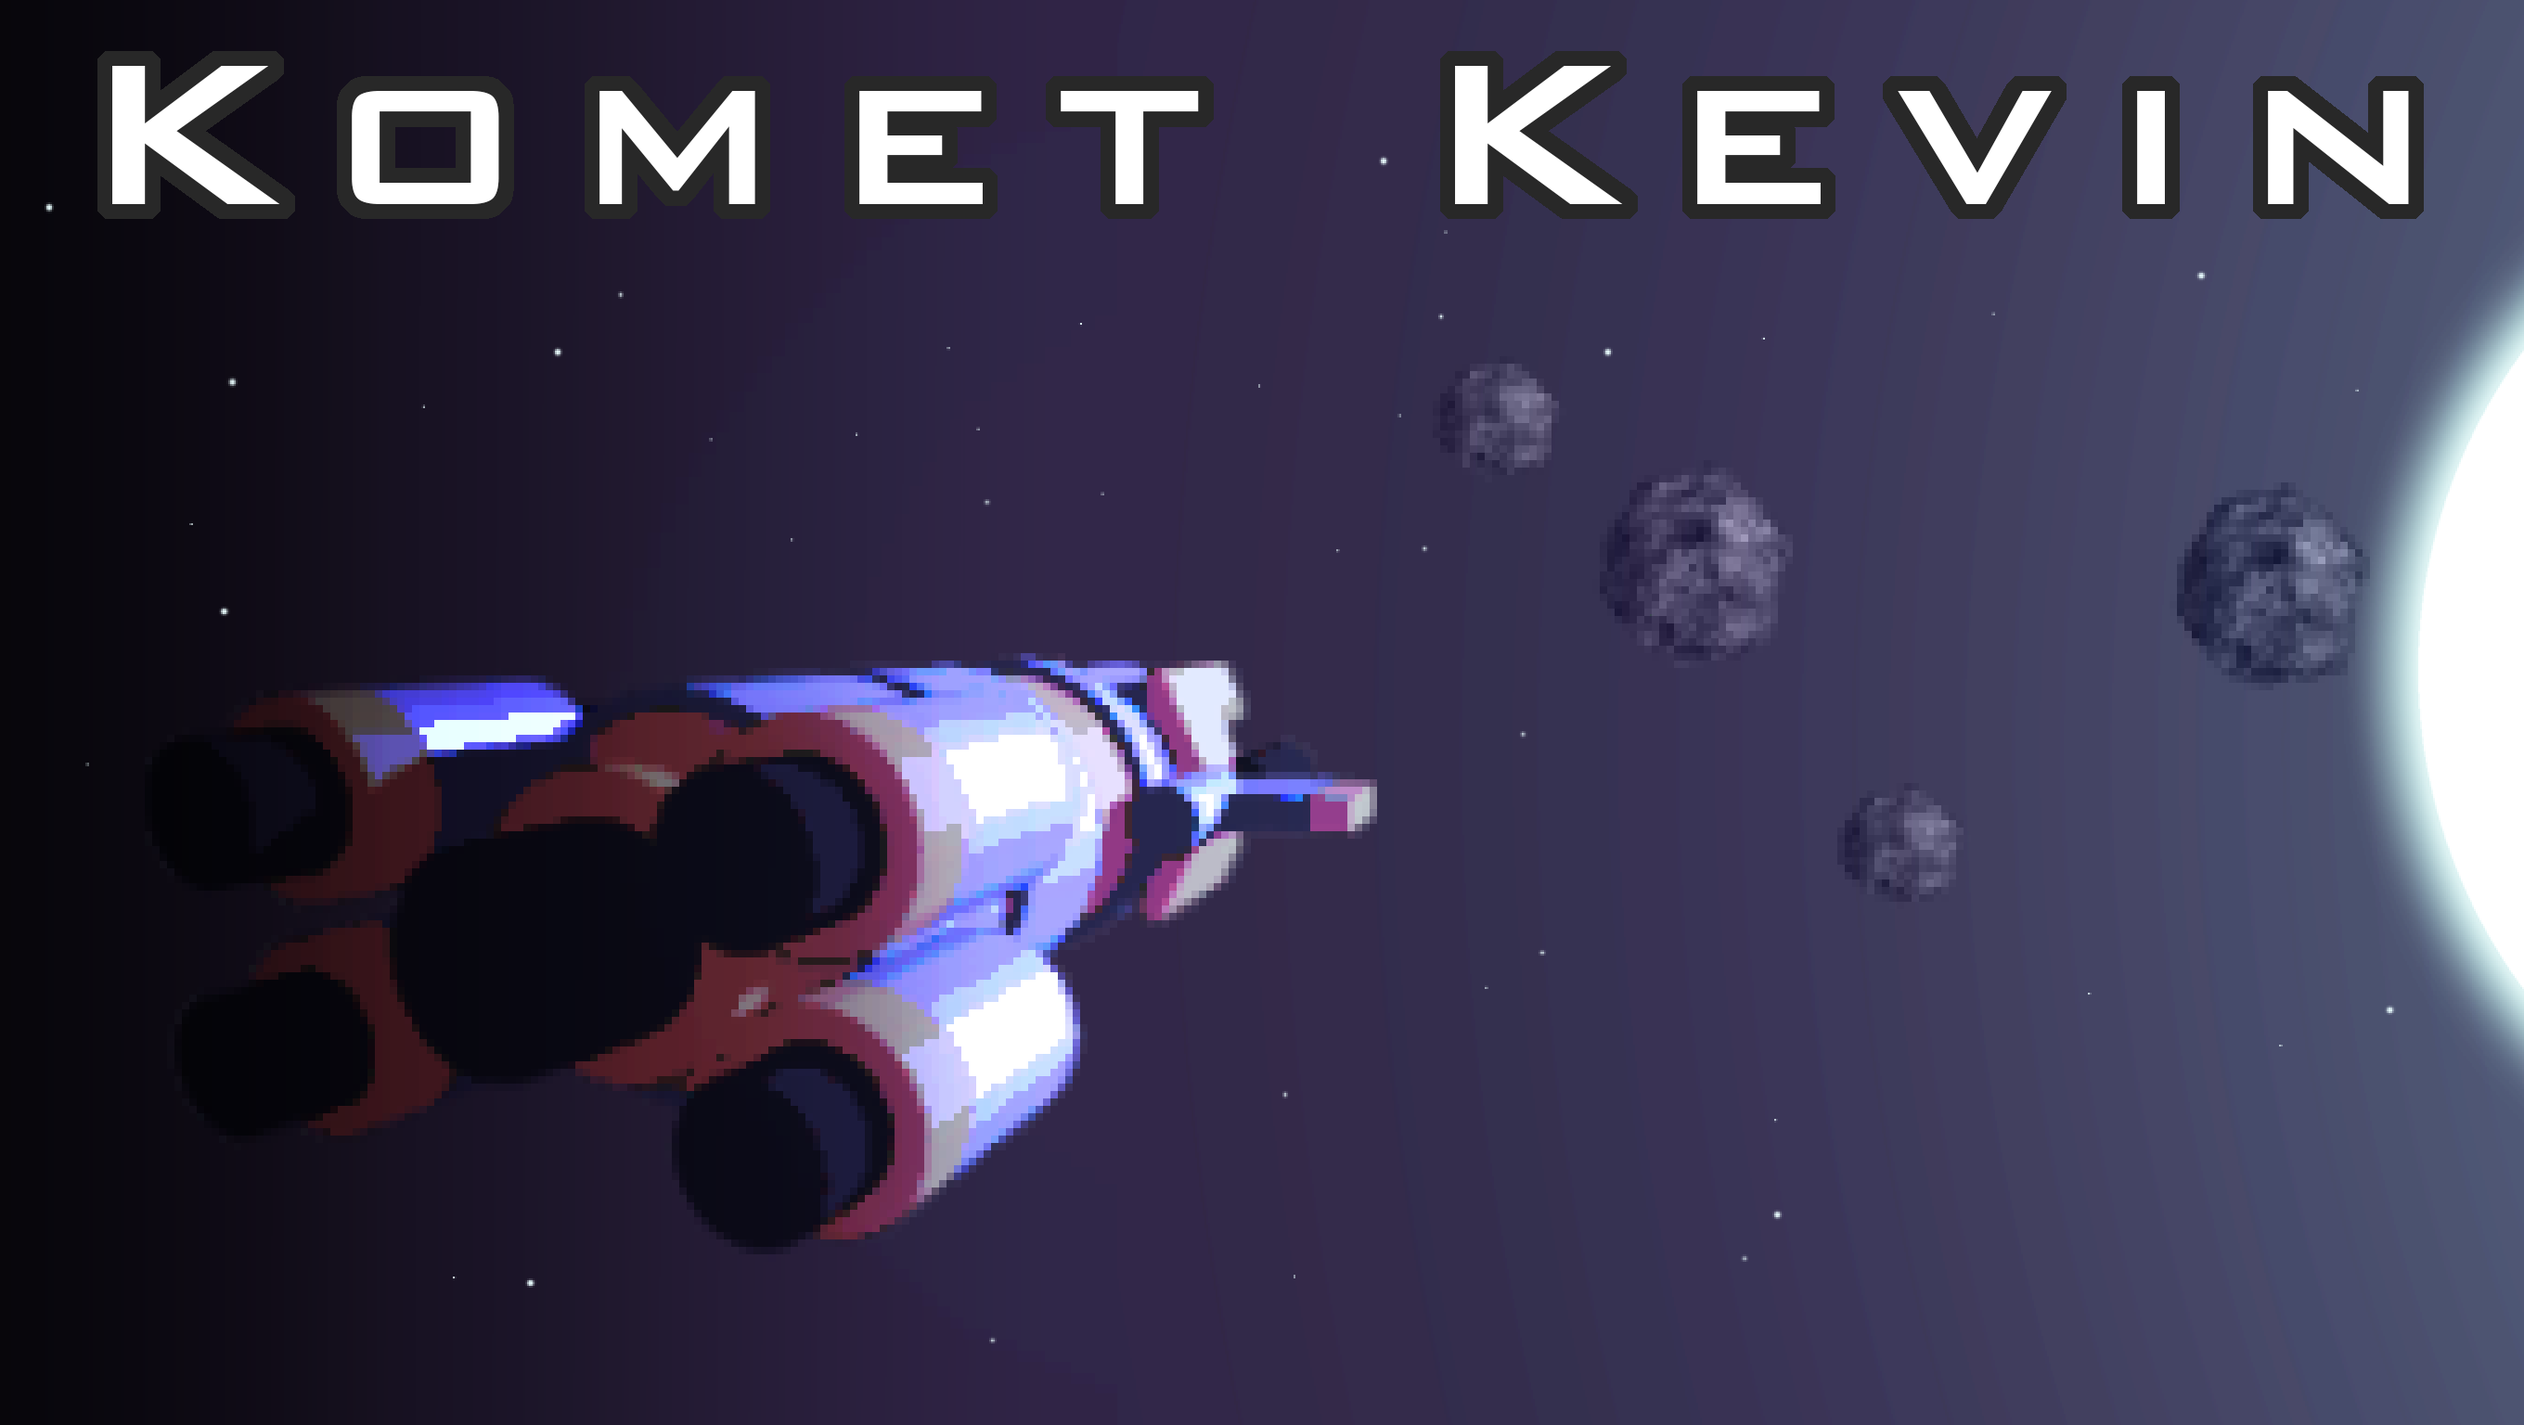
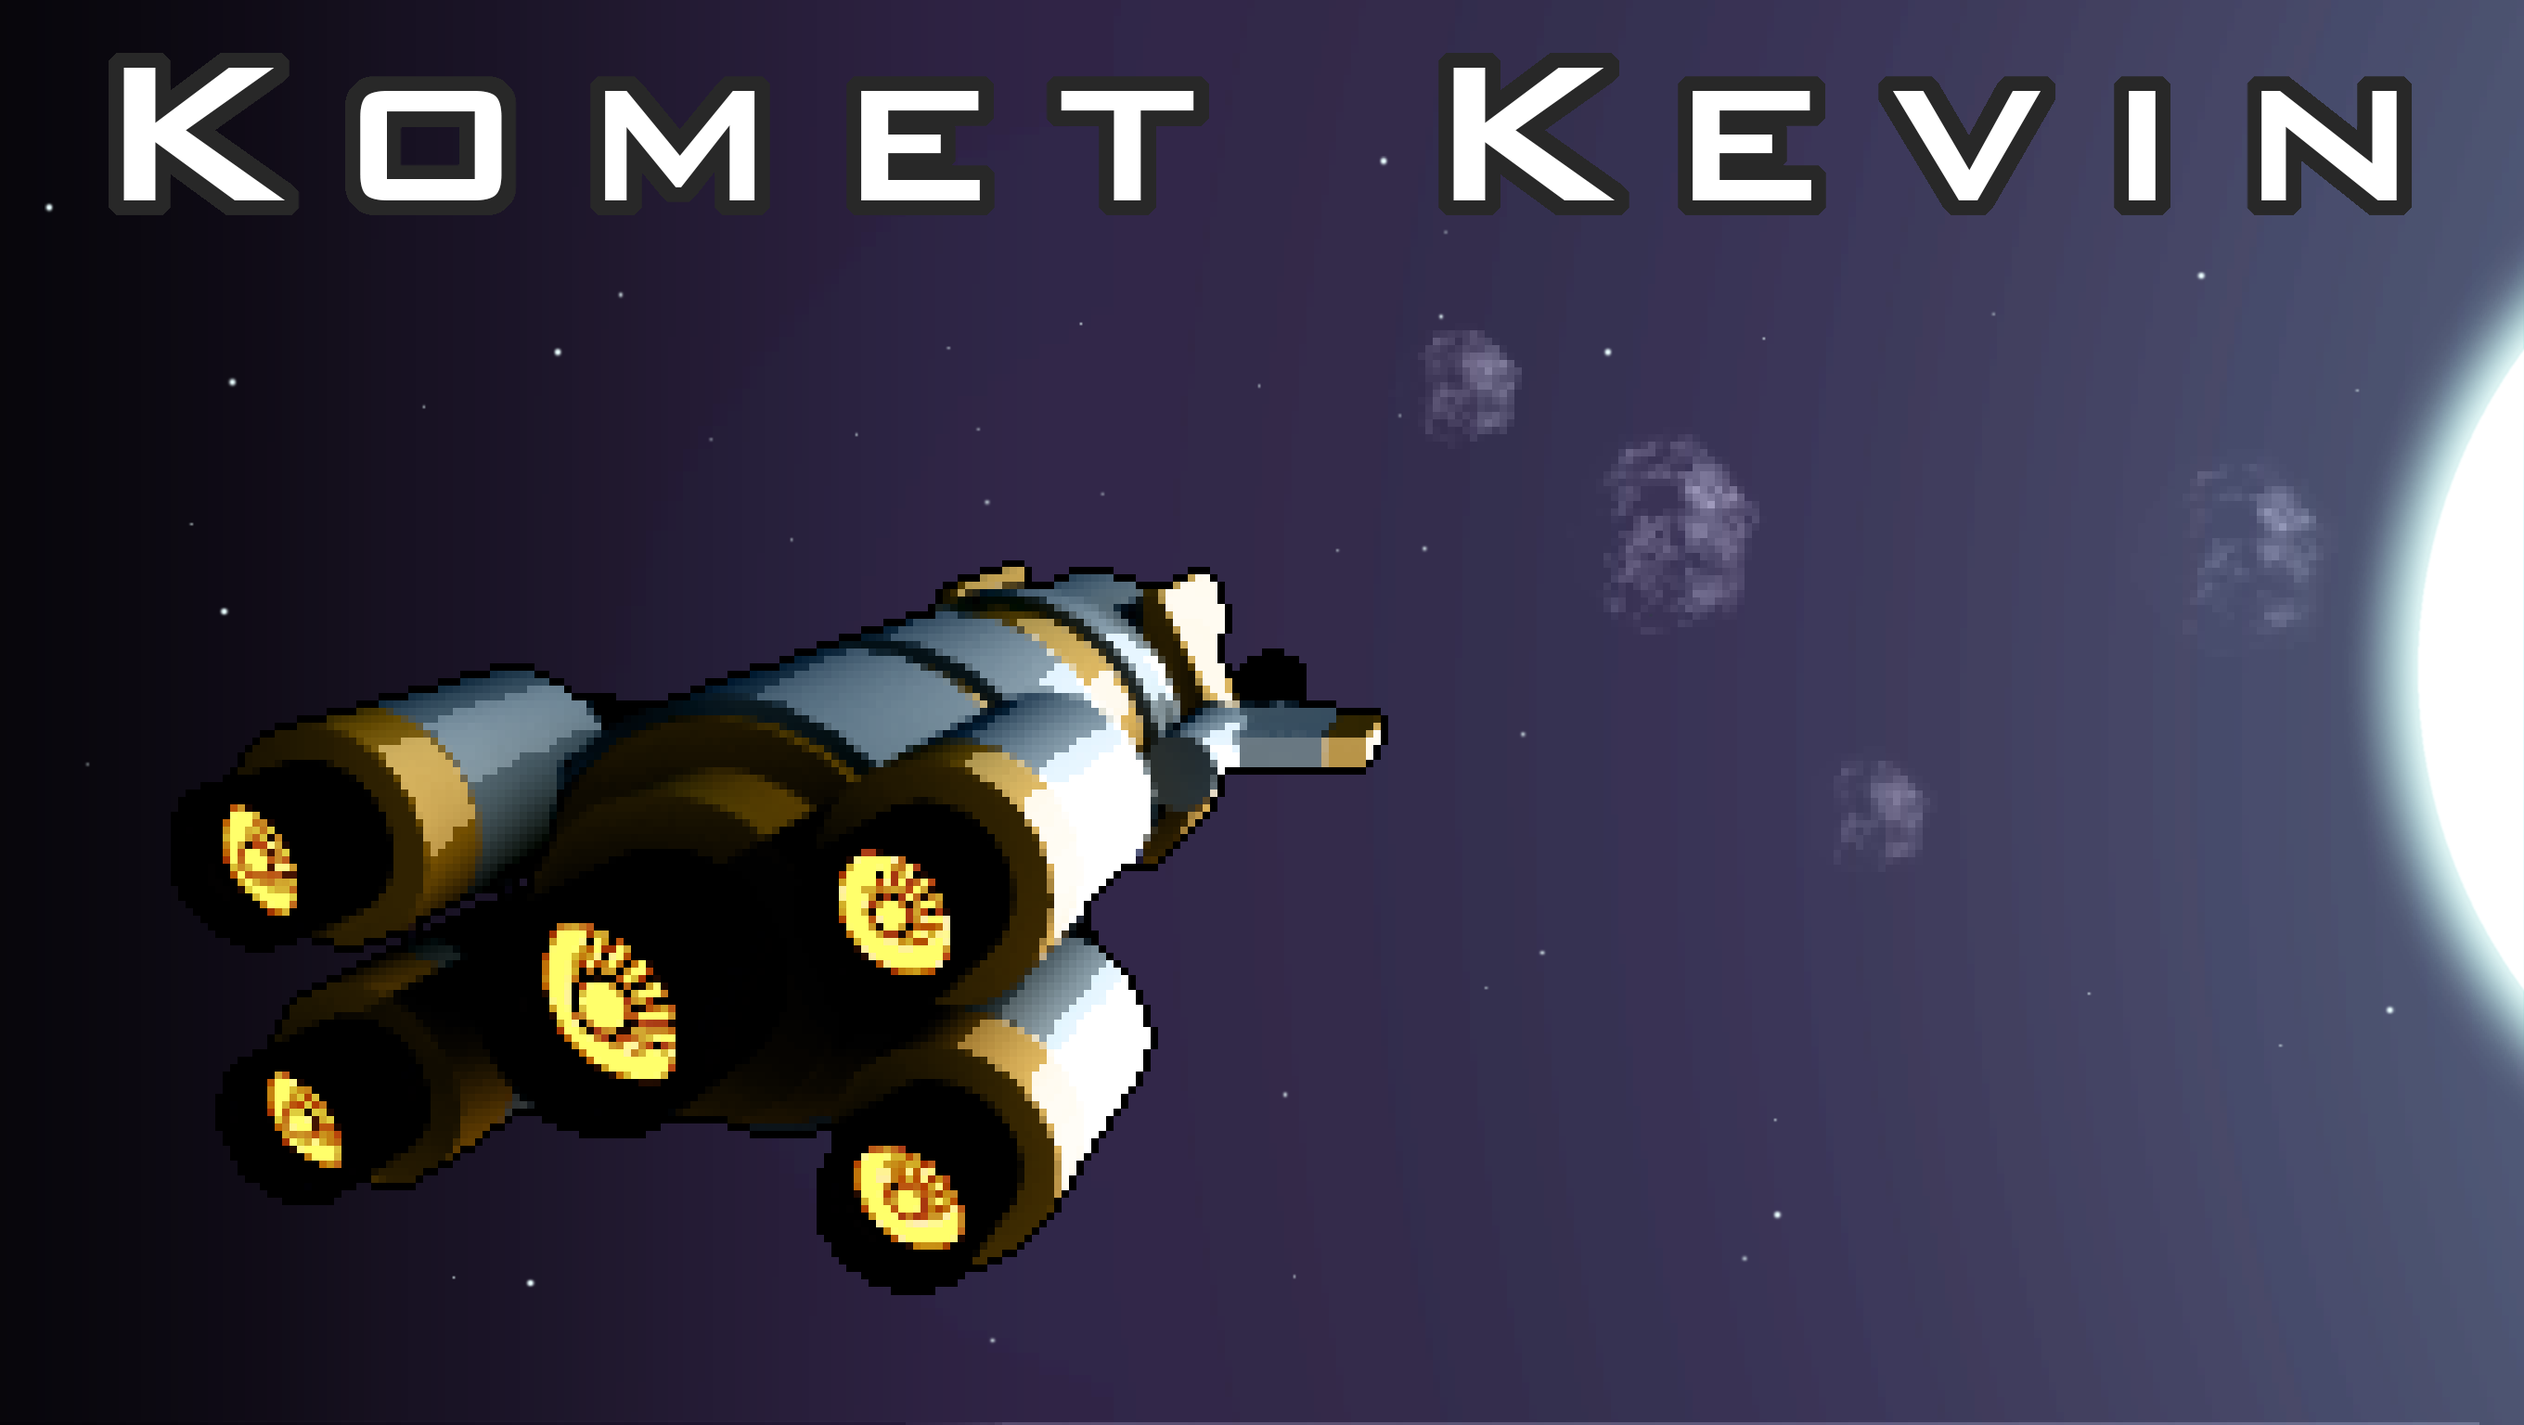
-Soporte para seleccion de naves

diff --git a/KometKevin/src/gui/MainMenu.java b/KometKevin/src/gui/MainMenu.java
@@ -5,6 +5,7 @@ import engine2D.Window;
 import engine2D.Config;
 import game.GameManager;
 import game.objects.Player;
+import game.objects.ships.ShipFactory;
 import game.objects.ships.Ships;
 import game.objects.ships.hammer.HammerHead;
 
@@ -18,15 +19,12 @@ import java.awt.event.MouseAdapter;
 import java.awt.event.MouseEvent;
 
 import javax.swing.Box;
-import javax.swing.ImageIcon;
 import javax.swing.JLabel;
 import javax.swing.JPanel;
 import javax.swing.SwingConstants;
 
 import java.io.File;
 import java.io.IOException;
-import java.util.logging.Level;
-import java.util.logging.Logger;
 import javax.imageio.ImageIO;
 import javax.swing.JMenu;
 import javax.swing.JMenuItem;
@@ -53,9 +51,9 @@ public class MainMenu extends JPanel {
     
     private static final int SPACE_BETWEEN_MENUS = SCREEN_HEIGHT/50;
     private static final int MENU_TOP_SPACE = SCREEN_HEIGHT/3;
-    // hay que cambiarlo para qeu sea relativo a la resolucion.
     private static final int STANDARD_FONT_SIZE = 50;
     private static final int STANDARD_SCREEN_SIZE = 1080;
+    
     private float fontSize = 50.0f;
     
     private static final String BG = "resources/menu/backgroundHammer.png";
@@ -68,7 +66,7 @@ public class MainMenu extends JPanel {
     private JLabel start, options, scores, exit, startSelect, next, previous, ship;
     
     private  Image[] shipIcons;
-    private int shipsIterator;
+    private int shipsIterator = 0;
 
     /**
      * Creates new form MainMenu
@@ -82,15 +80,19 @@ public class MainMenu extends JPanel {
         //Estos valoren deberan cambian en getScaledInstance, ya que no son genericos,
         for (int i = 0; i < shipIcons.length; i++){
             try {
-                shipIcons[i] = (ImageIO.read(new File("resources" + Ships.values()[i].getSprite()))
+                shipIcons[i] = ImageIO.read(new File(Ships.values()[i].getSelectMenu()))
+                            .getScaledInstance(SCREEN_WIDTH, SCREEN_HEIGHT, 1);
+                /*shipIcons[i] = (ImageIO.read(new File("resources" + Ships.values()[i].getSprite()))
                         .getSubimage(0, 0, Ships.values()[i].getSizeX(), Ships.values()[i].getSizeY())
                         .getScaledInstance(Ships.values()[i].getSizeX()*3, 
                                             Ships.values()[i].getSizeY()*3, 
-                                            Image.SCALE_AREA_AVERAGING));
+                                            Image.SCALE_AREA_AVERAGING));*/
             } catch (IOException ex) {}
         }
+        
         fontSize = (float)((SCREEN_HEIGHT * STANDARD_FONT_SIZE) / STANDARD_SCREEN_SIZE);
         shipsIterator = 0;
+        
         try {
             menuSelect = new SoundClip(menuSound);
         } catch (IOException ex) {}
@@ -189,13 +191,7 @@ public class MainMenu extends JPanel {
         
         Box box = Box.createHorizontalBox();
         JPanel panel = new JPanel();
-        JPanel panelShips = new JPanel();
-        Dimension shipSize = new Dimension(SCREEN_WIDTH/5, SCREEN_HEIGHT/2);
-        Dimension shipSizeIcon = new Dimension(SCREEN_WIDTH/5, SCREEN_HEIGHT/2);
-        
-        ship = new JLabel(new ImageIcon(shipIcons[shipsIterator]));
-        ship.setOpaque(false);
-        ship.setVisible(true);
+        Dimension shipSize = new Dimension(SCREEN_WIDTH/2, SCREEN_HEIGHT-200);
         
         panel.setBackground(new Color(0,0,0,0));
         panel.setPreferredSize(shipSize);
@@ -203,18 +199,9 @@ public class MainMenu extends JPanel {
         panel.setMinimumSize(shipSize);
         panel.setLayout(new BorderLayout(100,100));
         
-        panelShips.setBackground(new Color(0,0,0,255));
-        
-        panelShips.setPreferredSize(shipSizeIcon);
-        panelShips.setMaximumSize(shipSizeIcon);
-        panelShips.setMinimumSize(shipSizeIcon);
-        panelShips.setLayout(new BorderLayout(0,0));
-        
         panel.add(startSelect, BorderLayout.SOUTH);
-        panelShips.add(ship, BorderLayout.NORTH);
-        panel.add(panelShips, BorderLayout.NORTH);
         
-        box.add(Box.createHorizontalStrut(MENU_TOP_SPACE));
+        box.add(Box.createHorizontalStrut(SPACE_BETWEEN_MENUS));
         box.add(previous);
         box.add(Box.createHorizontalStrut(SPACE_BETWEEN_MENUS));
         box.add(panel);
@@ -225,7 +212,8 @@ public class MainMenu extends JPanel {
     }
     
     private void startSelectLabelMouseClicked(MouseEvent evt) {
-        player = new HammerHead(0,0, (GameManager)window.getGameContainer().getGame());
+        //player = new HammerHead(0,0, (GameManager)window.getGameContainer().getGame());
+        player = ShipFactory.getPlayer(Ships.values()[shipsIterator], (GameManager)window.getGameContainer().getGame());
         
         if(player != null){
             ((GameManager)(window.getGameContainer().getGame())).setPlayer(player);
@@ -239,14 +227,16 @@ public class MainMenu extends JPanel {
     
     private void nextLabelMouseClicked(MouseEvent evt) {
         shipsIterator = (++shipsIterator) % shipIcons.length;
-        ship.setIcon(new ImageIcon(shipIcons[shipsIterator]));
+        //ship.setIcon(new ImageIcon(shipIcons[shipsIterator]));
+        this.repaint();
                     
     } 
     
     private void previousLabelMouseClicked(MouseEvent evt) {
         shipsIterator--;
         if(shipsIterator == -1) shipsIterator = shipIcons.length - 1;
-        ship.setIcon(new ImageIcon(shipIcons[shipsIterator]));
+        //ship.setIcon(new ImageIcon(shipIcons[shipsIterator]));
+        this.repaint();
     } 
     
     private void optionsLabelMouseClicked(MouseEvent evt) {                                        
@@ -255,7 +245,6 @@ public class MainMenu extends JPanel {
         Dimension sizeItem = new Dimension(SCREEN_HEIGHT/10, SCREEN_WIDTH/3);
         
         JMenu optionsMenu = new JMenu("Controls");
-        JPanel panel = new JPanel();
         
         optionsMenu.setPreferredSize(size);
         optionsMenu.setMaximumSize(size);
@@ -327,7 +316,7 @@ public class MainMenu extends JPanel {
         
         //Hover listeners
         item.addMouseListener(new MouseAdapter() {
-    @Override
+            @Override
             public void mouseEntered(MouseEvent evt) {
                 item.setBackground(Color.WHITE);
                 item.setForeground(Color.BLACK);
@@ -353,12 +342,7 @@ public class MainMenu extends JPanel {
     protected void paintComponent(Graphics g) {
         //paint the background image
         super.paintComponent(g);
-        try {
-            g.drawImage(ImageIO.read(new File(BG)).getScaledInstance
-                             (SCREEN_WIDTH, SCREEN_HEIGHT, 1), 0, 0, null);
-        } catch (IOException ex) {
-            //mejor tratamiento de error
-            Logger.getLogger(MainMenu.class.getName()).log(Level.SEVERE, null, ex);
-        }
+        g.drawImage(shipIcons[shipsIterator], 0, 0, null);
+        
     }                 
 }

diff --git a/KometKevin/src/game/objects/ships/Ships.java b/KometKevin/src/game/objects/ships/Ships.java
@@ -8,19 +8,27 @@ public enum Ships {
     /**
      *
      */
-    Hammer("/ships/hammerShip.png", 120, 64),
-    Aphelion("resources/ships/aphelionShip.png", 90, 92),
-    Bartleby("resources/ships/bartlebyShip.png", 56, 48),
-    Sekul("resources/ships/bartlebyShip.png", 90, 92);
+    Hammer("/ships/hammerShip.png", 120, 64,
+            "resources/menu/backgroundHammer.png"),
     
-    private String sprite;
-    private int sizeX, sizeY;
-    private String selectMenu;
+    Aphelion("/ships/aphelionShip.png", 90, 92,
+            "resources/menu/backgroundAphelion.png"),
     
-    Ships(String sprite, int sizeX, int sizeY){
+    Bartleby("/ships/bartlebyShip.png", 56, 48,
+            "resources/menu/backgroundBartleby.png"),
+    
+    Sekul("/ships/bartlebyShip.png", 90, 92,
+            "resources/menu/backgroundSekul.png");
+    
+    private final String sprite;
+    private final int sizeX, sizeY;
+    private final String selectMenu;
+    
+    Ships(String sprite, int sizeX, int sizeY, String selectMenu){
         this.sprite = sprite;
         this.sizeX = sizeX; 
         this.sizeY = sizeY;
+        this.selectMenu = selectMenu;
     }
 
     public String getSprite() {
@@ -35,5 +43,8 @@ public enum Ships {
         return sizeY;
     }
 
+    public String getSelectMenu() {
+        return selectMenu;
+    }
     
 }

diff --git a/KometKevin/src/game/objects/ships/ShipFactory.java b/KometKevin/src/game/objects/ships/ShipFactory.java
@@ -1,0 +1,43 @@
+/*
+ * To change this license header, choose License Headers in Project Properties.
+ * To change this template file, choose Tools | Templates
+ * and open the template in the editor.
+ */
+package game.objects.ships;
+
+import game.GameManager;
+import game.objects.Player;
+import game.objects.ships.aphelion.Aphelion;
+import game.objects.ships.bartleby.Bartleby;
+import game.objects.ships.sekul.SekulIX;
+import game.objects.ships.hammer.HammerHead;
+
+/**
+ *
+ * @author Denis Florin Cobeti
+ */
+public class ShipFactory {
+    public static Player getPlayer(Ships ship, GameManager game){
+        Player player;
+        
+        switch(ship){
+            case Hammer:
+                player = new HammerHead(0,0, game);
+                break;
+            case Aphelion:
+                player = new Aphelion(0,0, game);
+                break;
+            case Bartleby:
+                player = new Bartleby(0,0, game);
+                break;
+            case Sekul:
+                player = new SekulIX(0,0, game);
+                break;
+            default:
+                player = new HammerHead(0,0, game);
+                break;
+        }
+        
+        return player;
+    }
+}

diff --git a/KometKevin/src/game/HUD.java b/KometKevin/src/game/HUD.java
@@ -50,17 +50,20 @@ public class HUD {
         r.drawFillRect(MARGIN_X, 30, 100,  6, 0xff6060ff);
         
         r.drawImageTile(image, MARGIN_X, 50,  0, 0);
-        if (target.getCds()[0] > 0) r.drawFillRect(MARGIN_X + 2, 50 + 2, 59, 59, 0xa0ffffff);
+        if (target != null) 
+            if (target.getCds()[0] > 0) r.drawFillRect(MARGIN_X + 2, 50 + 2, 59, 59, 0xa0ffffff);
             
         r.drawImageTile(image, MARGIN_X, 130, 1, 0);
         r.drawImageTile(image, MARGIN_X, 210, 2, 0);
         r.drawImageTile(image, MARGIN_X, 290, 3, 0);
         
+        if (target != null) 
         r.drawText("Speed:" + String.valueOf((int)(target.getVelocity().getLength() * 25)), 
                    MonoFont.STANDARD, 2, gc.getConfig().getScreenHeight() - 42, 0xffffffff);
         
         String dumpers = "OFF";
-        if (target.getDumpers()) dumpers = "ON";
+        if (target != null) 
+            if (target.getDumpers()) dumpers = "ON";
         
         r.drawText("Dumps:" + dumpers, MonoFont.STANDARD, 2, gc.getConfig().getScreenHeight() - 20, 0xffff9900);
     }   

diff --git a/KometKevin/src/game/GameManager.java b/KometKevin/src/game/GameManager.java
@@ -33,7 +33,6 @@ public class GameManager extends AbstractGame {
         //Player player = new HammerHead(100, 100, this);
 
 //        for (int i = 0; i < 25; i++) /* Test de eficiencia */
-        objects.add(0,player);
 
         objects.add(new Asteroid(350, 350));
         objects.add(new GravPool(background.getW()/2, background.getH()/2));
@@ -98,6 +97,7 @@ public class GameManager extends AbstractGame {
     public void setPlayer(Player player) {
         this.player = player;
         objects.add(0, this.player);
+         
     }
     
 }

diff --git a/KometKevin/src/game/objects/ships/aphelion/Aphelion.java b/KometKevin/src/game/objects/ships/aphelion/Aphelion.java
@@ -21,6 +21,19 @@ public class Aphelion extends Player {
         height = ((ImageTile) image).getTileH();
         
         collider = new BoxCollider(this, 72, 46);
+        
+        fowardsAccel = 4;
+        backwardsAccel = 4;
+        lateralAccel = 4;
+        
+        //hay que pulir
+        rotationSpeed = 0.06;
+        rotationTolerance = 0.027;
+        
+        cdValues[0] = 0.17;
+        cdValues[1] = 5;
+        cdValues[2] = 0.25;
+        cdValues[3] = 0;
     }
 
     @Override

diff --git a/KometKevin/src/game/objects/ships/bartleby/Bartleby.java b/KometKevin/src/game/objects/ships/bartleby/Bartleby.java
@@ -21,6 +21,19 @@ public class Bartleby extends Player {
         height = ((ImageTile) image).getTileH();
         
         collider = new BoxCollider(this, 48, 30);
+        
+        
+        fowardsAccel = 2.9;
+        backwardsAccel = 1.9;
+        lateralAccel = 1.1;
+        
+        rotationSpeed = 0.015;
+        rotationTolerance = 0.01;
+        
+        cdValues[0] = 0.17;
+        cdValues[1] = 5;
+        cdValues[2] = 0.25;
+        cdValues[3] = 0;
     }
 
     @Override
